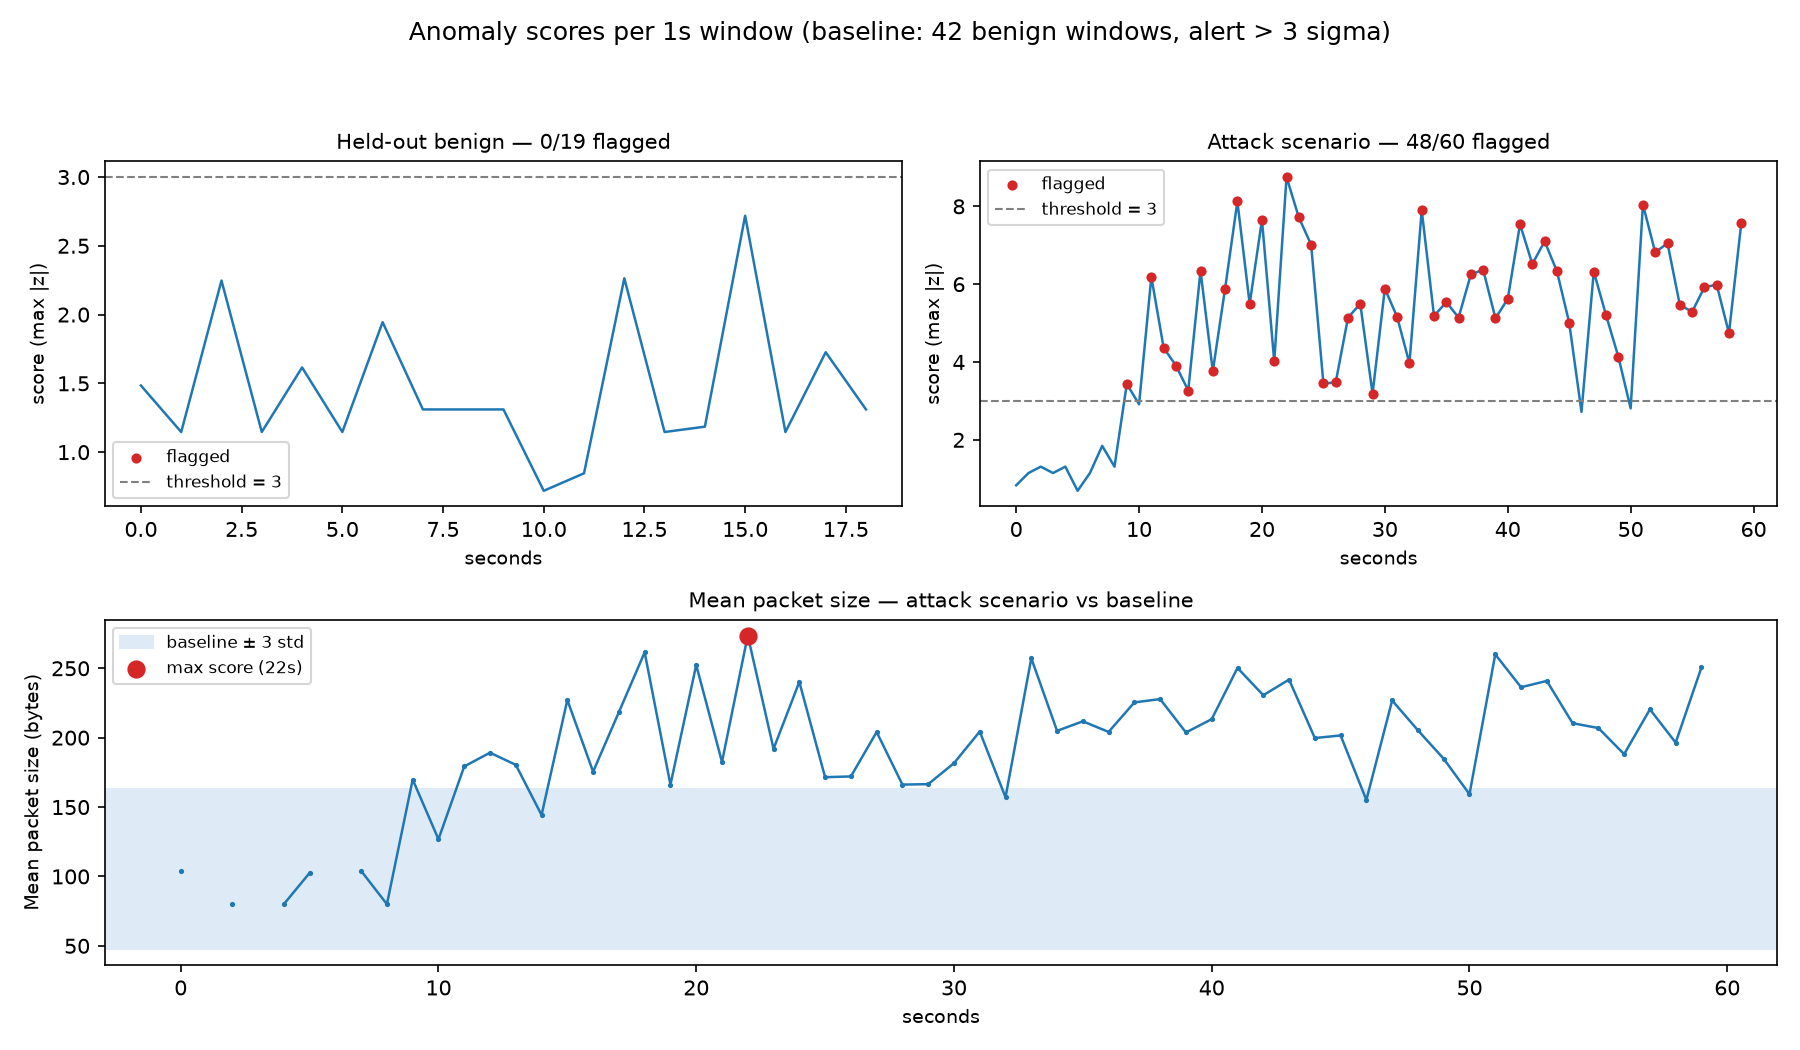
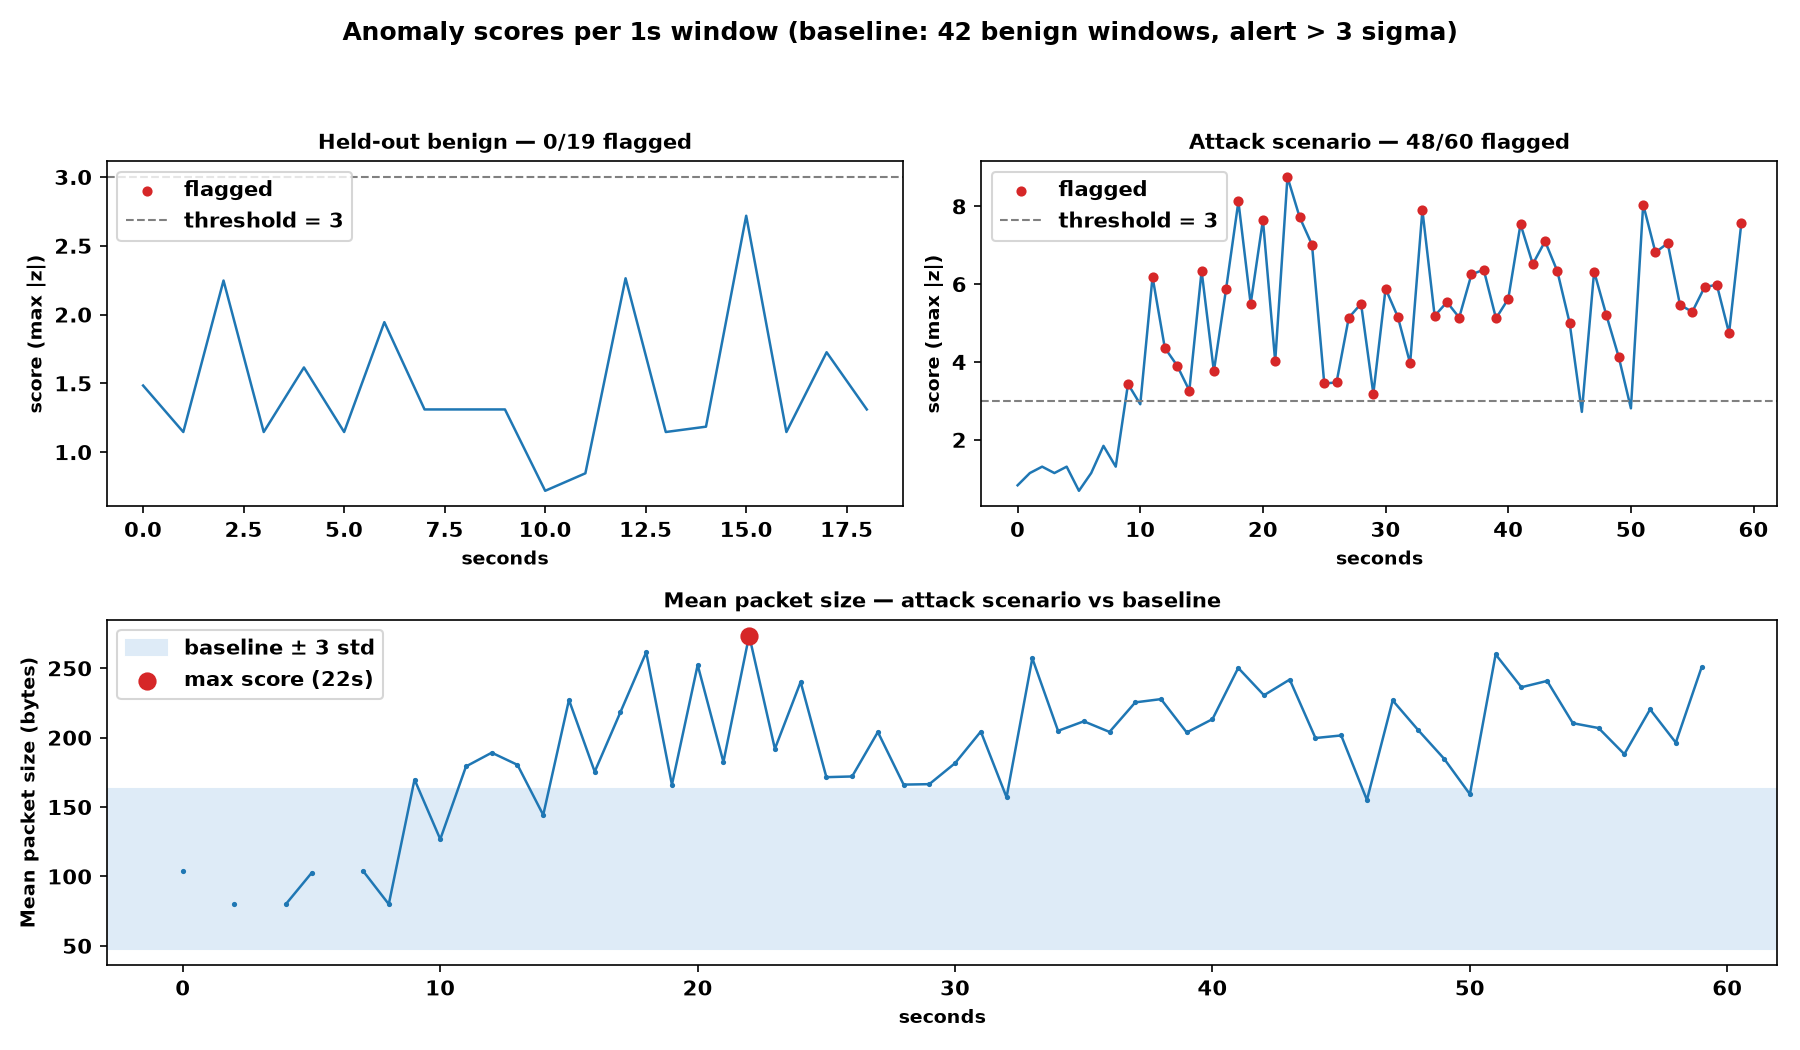
bold labels across analysis plot output

diff --git a/Threat_Detection/test.py b/Threat_Detection/test.py
@@ -223,7 +223,7 @@ def plot_results(results, benign_results, mean, std, baseline_windows, show=True
 
     fig.suptitle(f"Anomaly scores per {WINDOW_SIZE:g}s window "
                  f"(baseline: {baseline_windows} benign windows, alert > {THRESHOLD:g} sigma)",
-                 fontsize=12)
+                 fontsize=12, fontweight="bold")
 
     for ax, frame, title in [
         (ax_benign, benign_results, "Held-out benign"),
@@ -239,15 +239,16 @@ def plot_results(results, benign_results, mean, std, baseline_windows, show=True
                    zorder=3, label="flagged")
         ax.axhline(THRESHOLD, color="gray", linestyle="--", linewidth=1,
                    label=f"threshold = {THRESHOLD:g}")
-        ax.set_title(f"{title} — {int(flagged.sum())}/{len(frame)} flagged", fontsize=10)
-        ax.set_xlabel("seconds", fontsize=9)
-        ax.set_ylabel("score (max |z|)", fontsize=9)
-        ax.legend(fontsize=8)
+        ax.set_title(f"{title} — {int(flagged.sum())}/{len(frame)} flagged",
+                     fontsize=10, fontweight="bold")
+        ax.set_xlabel("seconds", fontsize=9, fontweight="bold")
+        ax.set_ylabel("score (max |z|)", fontsize=9, fontweight="bold")
+        ax.legend(fontsize=8, prop={"weight": "bold"})
 
     scored = results.loc[results["anomaly_score"].notna()]
     if scored.empty:
         ax_feature.text(0.5, 0.5, "no scored windows", transform=ax_feature.transAxes,
-                        ha="center", fontsize=11)
+                        ha="center", fontsize=11, fontweight="bold")
         ax_feature.set_axis_off()
     else:
         index = scored["anomaly_score"].idxmax()
@@ -263,10 +264,15 @@ def plot_results(results, benign_results, mean, std, baseline_windows, show=True
                            color="#deebf7", label=f"baseline ± {THRESHOLD:g} std")
         ax_feature.scatter([time], [row["observed_value"]], color="#d62728", s=60,
                            zorder=5, label=f"max score ({time:g}s)")
-        ax_feature.set_title(f"{name} — attack scenario vs baseline", fontsize=10)
-        ax_feature.set_xlabel("seconds", fontsize=9)
-        ax_feature.set_ylabel(f"{name} ({unit})", fontsize=9)
-        ax_feature.legend(fontsize=8)
+        ax_feature.set_title(f"{name} — attack scenario vs baseline",
+                             fontsize=10, fontweight="bold")
+        ax_feature.set_xlabel("seconds", fontsize=9, fontweight="bold")
+        ax_feature.set_ylabel(f"{name} ({unit})", fontsize=9, fontweight="bold")
+        ax_feature.legend(fontsize=8, prop={"weight": "bold"})
+
+    for ax in fig.axes:
+        for label in ax.get_xticklabels() + ax.get_yticklabels():
+            label.set_fontweight("bold")
 
     fig.tight_layout(rect=[0, 0, 1, 0.94])
     fig.savefig("anomaly_results.png", dpi=150)
